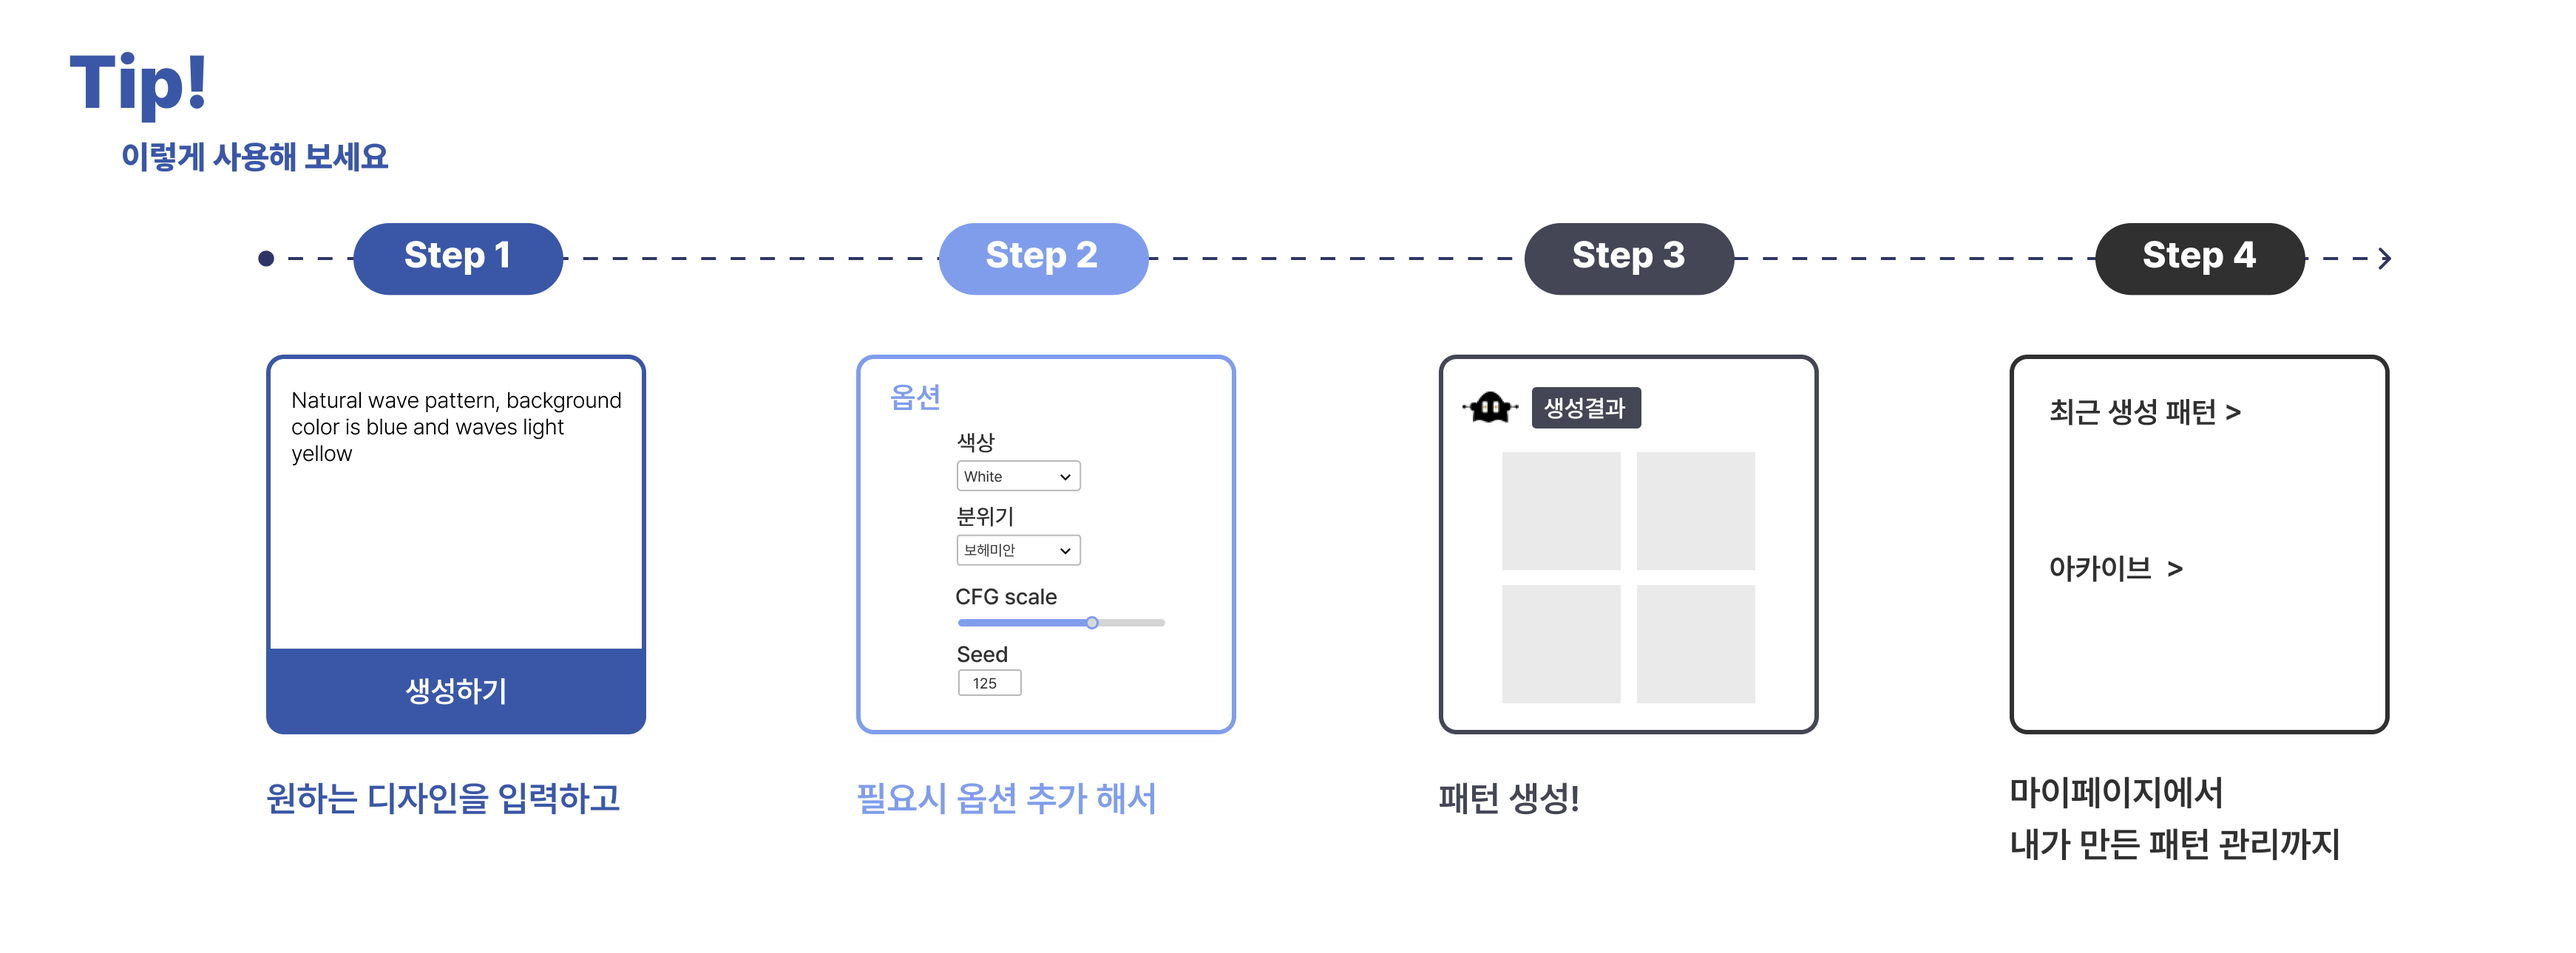
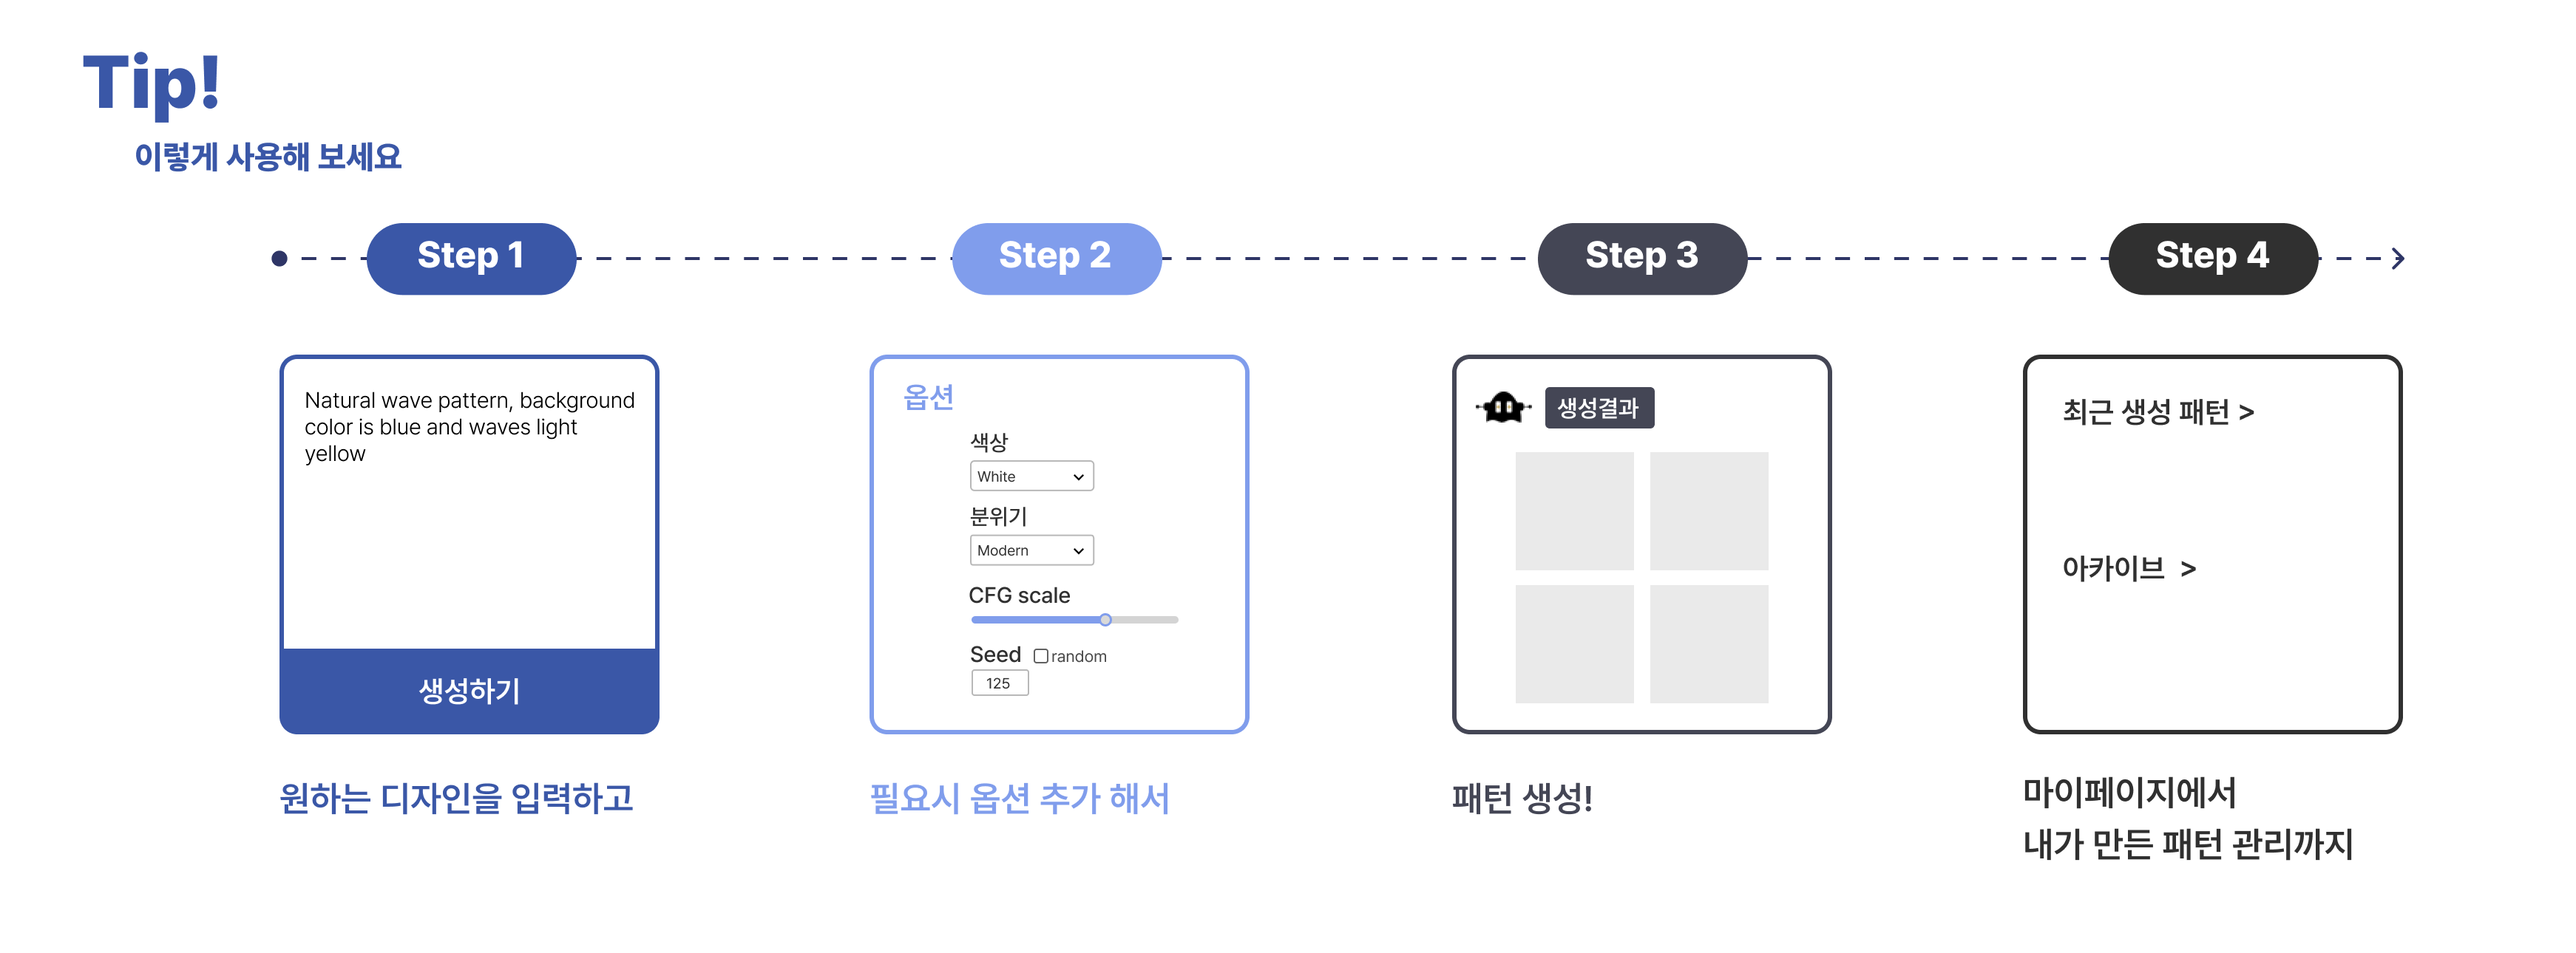
분위기 영어로 변경

diff --git a/src/pages/CreateImage.jsx b/src/pages/CreateImage.jsx
@@ -260,18 +260,18 @@ const CreateImage = () => {
     const [selectedMood, setSelectedMood] = useState(null);
 
     const moodOptions = [
-        '카툰',
-        '모던',
-        '아방가르드',
-        '빈티지',
-        '보헤미안',
-        '미니멀리스트',
-        '로맨틱',
-        '펑크',
-        '그래픽',
-        '에스닉',
-        '내추럴',
-        '레트로',
+        'Cartoon',
+        'Modern',
+        'Avant-garde',
+        'Vintage',
+        'Bohemian',
+        'Minimalist',
+        'Romantic',
+        'Punk',
+        'Graphic',
+        'Ethnic',
+        'Natural',
+        'Retro',
     ];
 
     // 컬러 옵션
@@ -508,13 +508,31 @@ const CreateImage = () => {
                                         ))}
                                     </select>
                                     {isCustomMood && (
-                                        <input
-                                            type="text"
-                                            value={mood}
-                                            onChange={(e) => handleInputChange(e, setMood)}
-                                            placeholder="직접 입력"
-                                            className="p-2 border focus:outline-none focus:border-[#809DEC] rounded-lg w-40 font-['pretendard-regular']"
-                                        />
+                                        <div className="flex flex-col">
+                                            <input
+                                                type="text"
+                                                value={mood}
+                                                onChange={(e) => {
+                                                    const value = e.target.value;
+                                                    const koreanRegex = /[ㄱ-ㅎ|ㅏ-ㅣ|가-힣]/g; // 한글 체크하는 정규 표현식
+
+                                                    if (koreanRegex.test(value)) {
+                                                        setErrorMessage('한국어는 입력할 수 없습니다.');
+                                                    } else {
+                                                        setErrorMessage(''); // 한글이 아닌 경우 경고 문구 제거
+                                                        setMood(value); // 한글이 아닐 때만 mood 상태 업데이트
+                                                    }
+                                                }}
+                                                placeholder="직접 입력"
+                                                className="p-2 border focus:outline-none focus:border-[#809DEC] rounded-lg w-40 font-['pretendard-regular']"
+                                            />
+                                            {/* 경고 메시지 표시 */}
+                                            {errorMessage && (
+                                                <p className="text-red-600 font-['pretendard-medium'] mt-1">
+                                                    {errorMessage}
+                                                </p>
+                                            )}
+                                        </div>
                                     )}
                                 </div>
                             </div>
